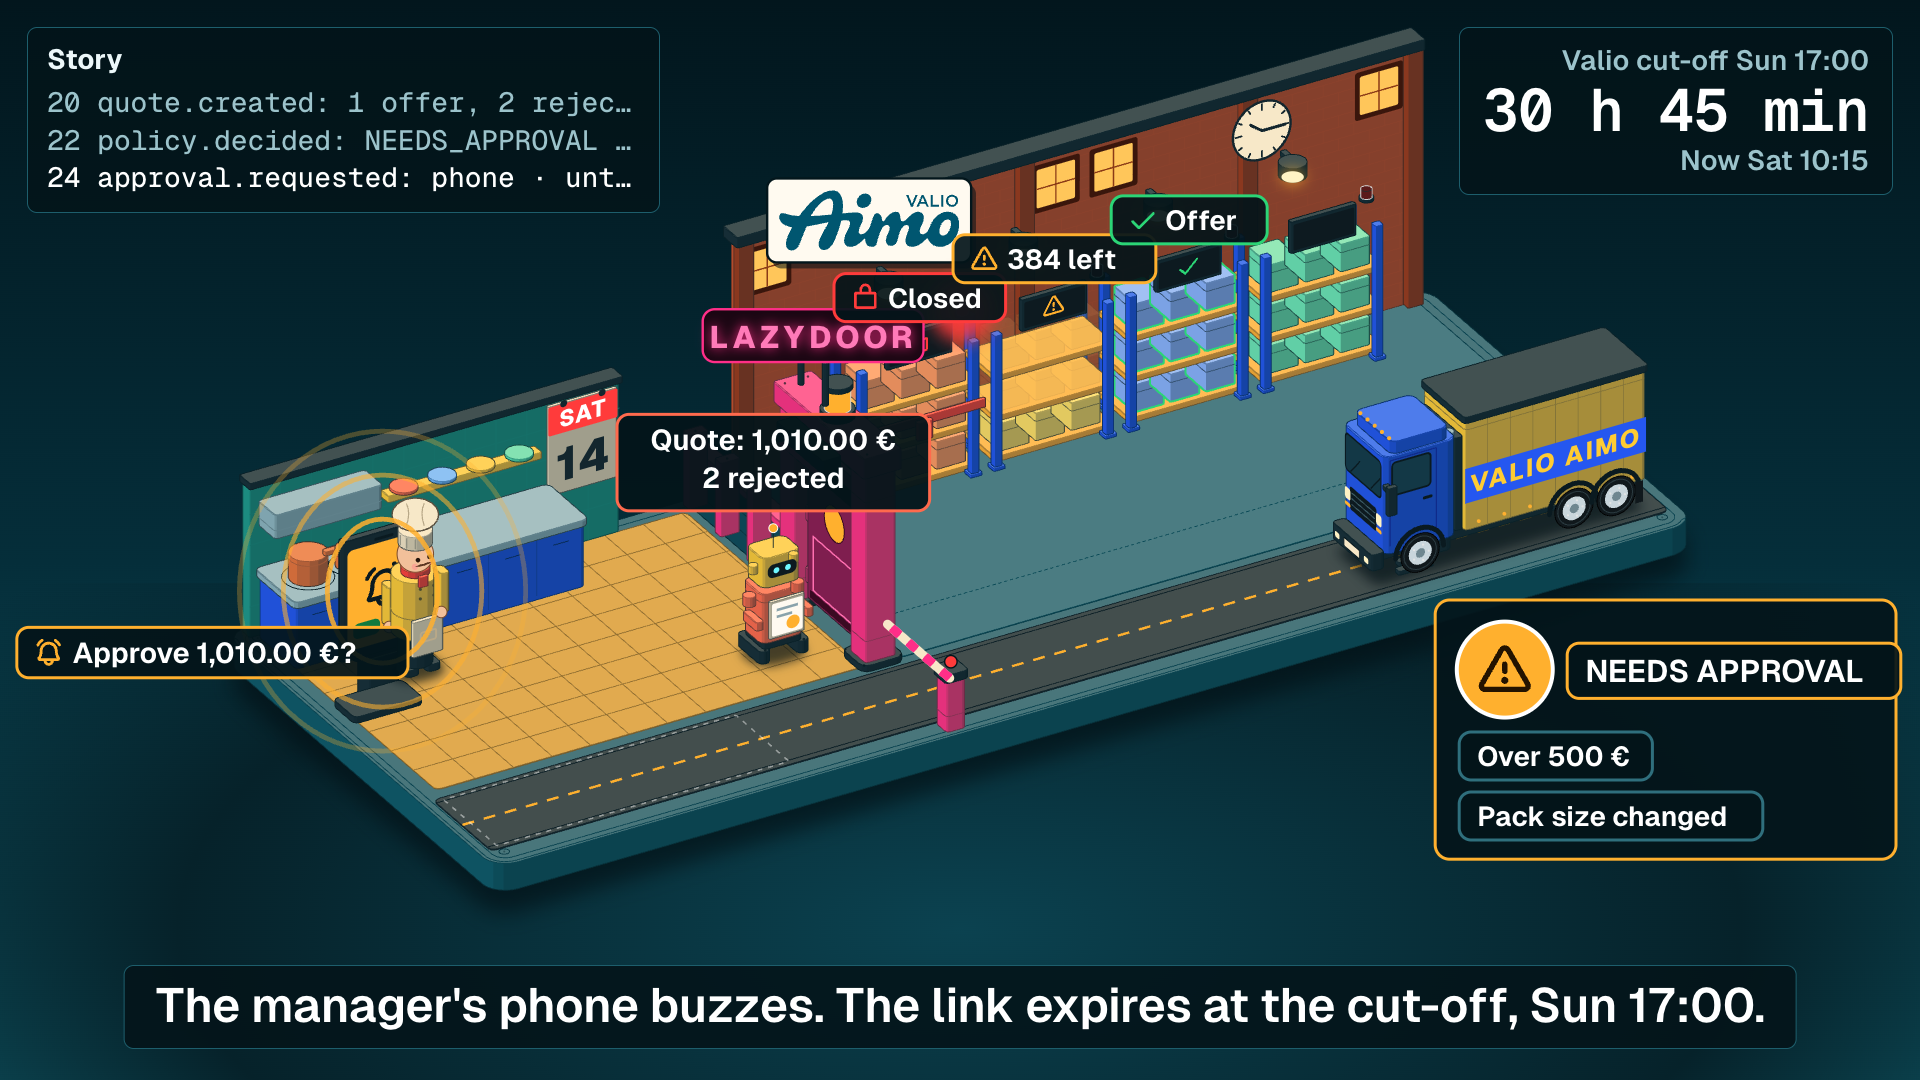
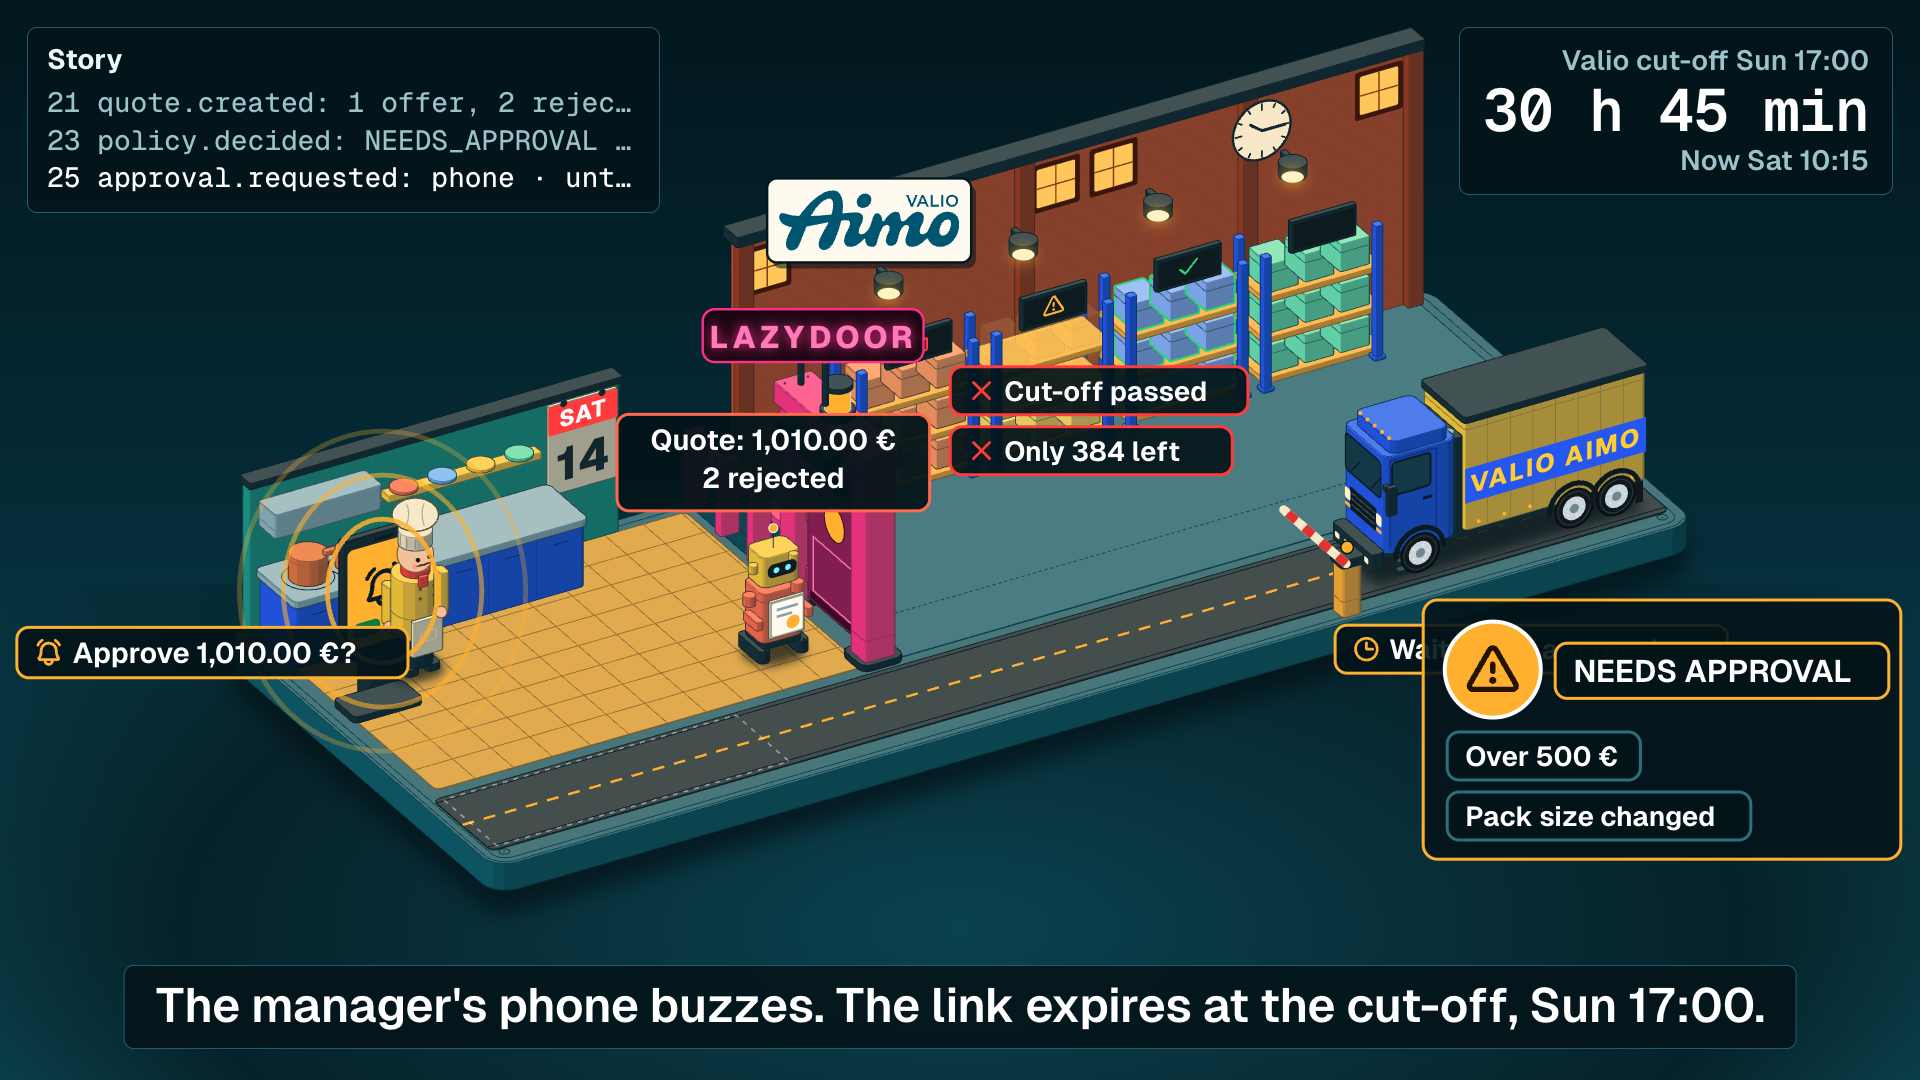
fix(demo): refusals where the rule acts (door scanner, dock gate), no weather metaphor; ready for review
The door refuses closed or short products in front of the scanner and shows why; the
naive agent's crates are refused at the dock gate at the cut-off; waiting and expired
approvals keep the dock gate shut. Rain cloud and shelf locks removed.

diff --git a/demo/demo.css b/demo/demo.css
@@ -210,9 +210,13 @@ body.kiosk .stage { width: min(100vw, 177.78vh); margin: 0 auto; border-radius: 
 [data-id="asks"] .iso-wire-end { stroke: #ff7ab8; fill: #1a0612; }
 .scene-front .iso-line[data-flow] { animation: none; stroke-dasharray: 4 8; }
 .boom { fill: none; stroke: #f7e8c8; stroke-width: 9px; stroke-linecap: round; }
-.boom-stripes { fill: none; stroke: var(--brand); stroke-width: 9px; stroke-dasharray: 11 11; }
+.boom-stripes { fill: none; stroke: #e0322f; stroke-width: 9px; stroke-dasharray: 11 11; }
 .barrier-lamp { fill: var(--reject); stroke: #03161c; stroke-width: 1.5px; }
-.barrier-lamp[data-open] { fill: var(--auto); }
+.barrier-lamp[data-state="open"] { fill: var(--auto); }
+.barrier-lamp[data-state="wait"] { fill: var(--hold); }
+.burst { --b: var(--reject); color: #fff; }
+.burst[data-ok] { --b: var(--auto); }
+.burst-ring { fill: var(--b); stroke: #fff; stroke-width: 3px; }
 
 /* Racks. */
 .rack .lock, .rack .cross { display: none; }

diff --git a/demo/STATUS.md b/demo/STATUS.md
@@ -2,6 +2,19 @@
 
 Nhánh `demo-animation`, thư mục `demo/`. Mới nhất ở dưới.
 
+## Ready for Kane's review
+
+Mở http://localhost:8790/ (dev server đang chạy, phục vụ thẳng thư mục `demo/`), bấm Play hoặc kéo thanh thời gian. Chưa quay video mới: `demo/story.mp4` vẫn là bản cũ, sẽ quay lại sau khi Kane duyệt.
+
+Cần xem:
+1. 0:15 đến 0:26, agent ngây thơ: thùng của kệ hộp 10 l bị cổng bến từ chối (dấu ✕ đỏ ở bến, nhãn "Cut-off Thu 12 Nov 15:00"), xe không chất hàng, quầy bếp trống. Không còn mây mưa.
+2. 0:44 đến 0:47: cổng Lazydoor từ chối hộp 10 l đã đóng và hàng Arla thiếu (thùng bay tới cổng rồi bật lại, ✕ đỏ ở cổng, lý do "Cut-off passed", "Only 384 left" ngay cạnh cổng); hàng được chọn qua cổng với ✓.
+3. 1:00 đến 1:13, đơn được chấp nhận: thùng lên xe, cổng bến nâng, xe chạy tới bếp, dỡ thùng lên quầy, chef giơ ngón cái, thẻ hoá đơn 1,010.00 €, lịch lật sang MON 16, xe quay về.
+4. Xe tải cận cảnh 1080p: [shots/after-truck.png](shots/after-truck.png) (một khung xe, cabin và thùng cùng trục, bánh chạm đường dưới vòm).
+5. Chữ ở 50%: [shots/after-scene-50pct.png](shots/after-scene-50pct.png).
+6. 1:23 chờ duyệt ("Waiting for approval" ở cổng bến) và 1:46 phê duyệt hết hạn: cổng bến đóng, "Approval expired".
+
+
 ## Nhật ký
 
 ### 1. Kế hoạch (xong)
@@ -84,6 +97,15 @@ Vấn đề tìm thấy:
 - Kiểm tra: ảnh 1080p xem ở 50% (khoảng cách laptop/máy chiếu), đọc được mọi chữ: [toàn cảnh 50%](shots/after-scene-50pct.png).
 - Ảnh sau: [toàn cảnh](shots/after-scene.png), [xe tải](shots/after-truck.png), [bếp và chef](shots/after-kitchen-chef.png), [cổng và robot](shots/after-door-robot.png), [kho](shots/after-warehouse.png), [giao hàng tới bếp](shots/after-delivery.png).
 - Kịch bản dài 123 giây (thêm 4 giây cho xe tới bếp). Hiệu năng vẫn trên 60 khung/giây ở 1080p (đo lại trước khi quay).
+
+### 11. Sửa theo nhận xét của Kane lúc 1:24 (xe tải, chặn đúng chỗ luật tác động)
+- Ảnh Kane chụp là bản trước (xe thùng bạt, giao diện cũ); xe đã được dựng lại ở mục 10. Kiểm tra lại cận cảnh 1080p: một khung gầm, cabin và thùng cùng trục và cùng mặt đất, bánh nằm dưới vòm và chạm đường, ánh sáng một hướng ([xe tải](shots/after-truck.png)).
+- Bỏ hình ảnh "mây mưa, xe không chạy được": thời tiết không phải lý do đơn hỏng. Chặn xảy ra đúng nơi luật tác động:
+  - Trong luồng Lazydoor: lúc có báo giá, mỗi sản phẩm ứng viên bay từ kệ tới máy quét của cổng; hàng bị loại bật lại với ✕ đỏ ở cổng và lý do ngay cạnh cổng; hàng được chọn qua với ✓. Khi chính sách ra REJECT, đơn bị dừng ở cổng (✕ ở cổng). Hàng bị loại không bao giờ tới bến hay xe ([cổng từ chối](shots/after-door-refusal.png)).
+  - Agent ngây thơ: thùng từ kệ hộp 10 l bị cổng bến (thanh chắn trước đầu xe) từ chối với nhãn "Cut-off Thu 12 Nov 15:00"; xe trống, quầy bếp trống ([bến từ chối](shots/after-dock-refusal.png)).
+  - Chờ duyệt: cổng bến đóng, đèn vàng, "Waiting for approval". Hết hạn: cổng bến đóng, "Approval expired", xe không chất hàng ([hết hạn](shots/after-expired.png)).
+- Thanh chắn chuyển từ hàng rào ra cổng bến trước đầu xe; bỏ khoá đỏ, đèn báo và dấu X trên kệ (kệ chỉ còn icon trạng thái trên bảng tên).
+- Bản quay 60 khung/giây làm trước nhận xét này nằm ngoài repo và không commit.
 
 ## Còn lại / cần làm sau
 - Test Live với `wrangler dev` khi `main` có route `/v1/events`, `/v1/events/stream`, `/v1/interpret`; khi đó kiểm tra tên trường trong `sendRequest` (`demo/live.mjs`).
